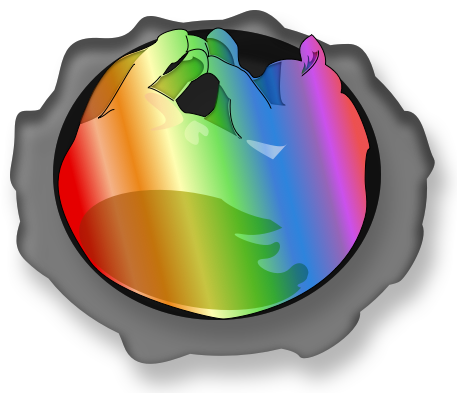
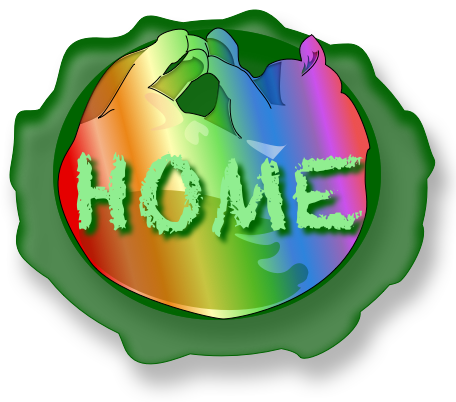
edited the home button image to have text on top, and styled the home button to the right top corner on screen

diff --git a/components/Phase.js b/components/Phase.js
@@ -14,10 +14,9 @@ export default class Phase extends React.Component {
   render() {
     return (
         <View style={styles.phaseContainer} >
-          <View>
+          <View style={styles.homeLink}>
             <HomeLinkContainer title="Home" onLinkPress={this.props.changeView}/>
           </View>
-          <View style={ styles.whiteSpace }/>
           <CurrentGameBoard gameDirections="Complete the Pattern" />
         </View>
     );
@@ -30,8 +29,11 @@ const styles = StyleSheet.create({
     flexDirection: 'column',
     width: '95%',
     height: '95%',
+    borderWidth: 5,
   },
-  whiteSpace: {
-    height: '10%',
-  }
+  homeLink: {
+    flexDirection: 'row',
+    justifyContent: 'flex-end',
+    marginTop: 10,
+  },
 });

diff --git a/components/ViewScreen.js b/components/ViewScreen.js
@@ -33,7 +33,6 @@ export default class App extends React.Component {
 const styles = StyleSheet.create({
   mainContainer: {
     flex: 1,
-    flexDirection: 'column',
     width: '100%',
     height: '100%',
     alignItems: 'center',
